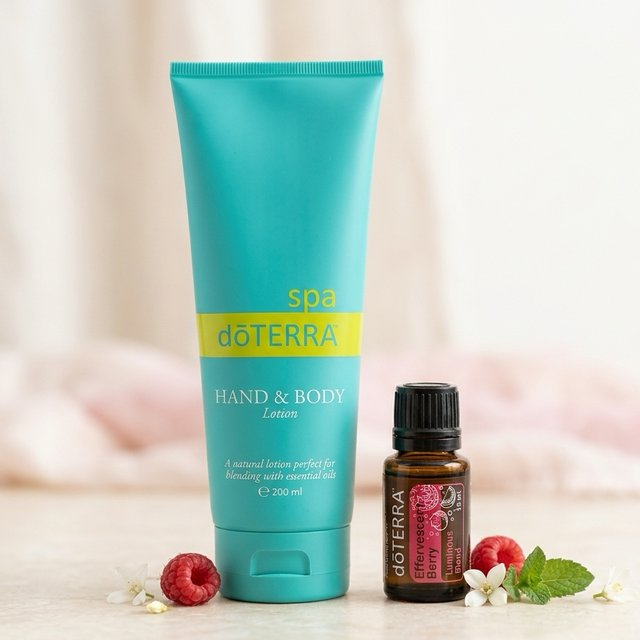
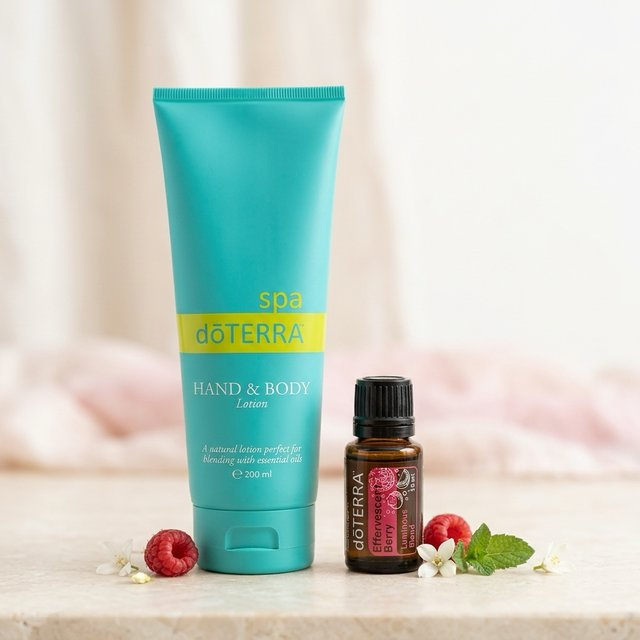
Listopad sezonowe: lepszy kadr Holiday Peace, Moringa Rose, Effervescent Berry; Effervescent na koniec sezonowych; kwadratowe zdjęcia na telefonie

diff --git a/listopad-sezonowe/index.html b/listopad-sezonowe/index.html
@@ -43,7 +43,7 @@ h3{font-size:19px;font-weight:600;margin:0 0 5px;line-height:1.25} .op{font-size
 .uw{margin-top:12px;font-size:12.5px;color:#713f12;background:#fef9c3;border-radius:8px;padding:6px 10px;display:inline-block}
 .metoda{background:#f4f6f5;border-radius:20px;padding:22px 24px;color:#44403c;font-size:13.5px;line-height:1.6}
 .metoda h2{font-family:'Playfair Display',serif;font-size:22px;font-weight:600;margin:0 0 8px;color:#1c1917} .metoda ul{margin:6px 0 0;padding-left:18px} .metoda a{color:#4d6a5e}
-@media (max-width:560px){ .foto{flex:1 1 100%;height:190px} .strz{display:none} .pill{margin-left:0} }
+@media (max-width:560px){ .foto{flex:1 1 100%;height:auto;aspect-ratio:1} .strz{display:none} .pill{margin-left:0} }
 </style></head><body><div class="wrap"><div class="ramka">
 <img class="lg" src="img/liscie-gora.jpg" alt="" onerror="this.style.display='none'"><img class="ld" src="img/liscie-dol.jpg" alt="" onerror="this.style.display='none'">
 <div class="in">
@@ -66,7 +66,7 @@ h3{font-size:19px;font-weight:600;margin:0 0 5px;line-height:1.25} .op{font-size
 <article class="k"><div class="foto"><img src="img/holiday-joy.jpg" alt="Holiday Joy (15 ml)"></div>
 <div class="tr"><div class="meta"><span class="et">PREZENT SEZONOWY</span><span class="pvm">· 29,5 PV</span></div>
 <h3>Holiday Joy (15 ml)</h3><div class="op">pomarańcza, goździk, kasja, jodła syberyjska, imbir</div><div class="row"><div><div class="lab ak">Cena</div><div class="pln">139,75 <span>zł</span></div></div></div></div></article>
-<article class="k"><div class="foto"><img src="img/holiday-peace.jpg?v=2" alt="Holiday Peace (15 ml)"></div>
+<article class="k"><div class="foto"><img src="img/holiday-peace.jpg?v=3" alt="Holiday Peace (15 ml)"></div>
 <div class="tr"><div class="meta"><span class="et">PREZENT SEZONOWY</span><span class="pvm">· 29,5 PV</span></div>
 <h3>Holiday Peace (15 ml)</h3><div class="op">jodła syberyjska, daglezja zielona, jodła nepalska, grejpfrut, kadzidłowiec, wetyweria</div><div class="row"><div><div class="lab ak">Cena</div><div class="pln">139,75 <span>zł</span></div></div></div></div></article>
 <article class="k"><div class="foto"><img src="img/yule-log.jpg?v=2" alt="Yule Log (15 ml)"></div>
@@ -75,15 +75,12 @@ h3{font-size:19px;font-weight:600;margin:0 0 5px;line-height:1.25} .op{font-size
 <article class="k"><div class="foto"><img src="img/hygge.jpg" alt="Hygge (15 ml)"></div>
 <div class="tr"><div class="meta"><span class="et">PREZENT SEZONOWY</span><span class="pvm">· 36 PV</span></div>
 <h3>Hygge (15 ml)</h3><div class="op">dzika pomarańcza, cedarwood, mirra, kadzidłowiec, wetyweria, amyris, czystek</div><div class="row"><div><div class="lab ak">Cena</div><div class="pln">169,49 <span>zł</span></div></div></div></div></article>
-<article class="k"><div class="foto"><img src="img/moringa-rose.jpg?v=2" alt="Moringa Rose — olejek do twarzy (30 ml)"></div>
+<article class="k"><div class="foto"><img src="img/moringa-rose.jpg?v=3" alt="Moringa Rose — olejek do twarzy (30 ml)"></div>
 <div class="tr"><div class="meta"><span class="et">PREZENT SEZONOWY</span><span class="pvm">· 33,5 PV</span></div>
 <h3>Moringa Rose — olejek do twarzy (30 ml)</h3><div class="op">olej z nasion moringi, olejek z róży damasceńskiej</div><div class="row"><div><div class="lab ak">Cena</div><div class="pln">184,50 <span>zł</span></div></div></div></div></article>
 <article class="k"><div class="foto"><img src="img/cinnamon-cosy-cup.jpg" alt="Cynamon (5 ml) + kubek Cosy Cup"></div>
 <div class="tr"><div class="meta"><span class="et">PREZENT SEZONOWY</span><span class="pvm">· 30,5 PV</span></div>
 <h3>Cynamon (5 ml) + kubek Cosy Cup</h3><div class="op">zestaw</div><div class="row"><div><div class="lab ak">Cena</div><div class="pln">203,50 <span>zł</span></div></div></div></div></article>
-<article class="k"><div class="foto"><img src="img/effervescent-berry-balsam.jpg?v=2" alt="Effervescent Berry (15 ml) + balsam do rąk i ciała"></div>
-<div class="tr"><div class="meta"><span class="et">PREZENT SEZONOWY</span><span class="pvm">· 41 PV</span></div>
-<h3>Effervescent Berry (15 ml) + balsam do rąk i ciała</h3><div class="op">zestaw: mieszanka 15 ml i balsam do rąk i ciała</div><div class="row"><div><div class="lab ak">Cena</div><div class="pln">204,75 <span>zł</span></div></div></div></div></article>
 <article class="k"><div class="foto"><img src="img/lemon-eucalyptus-kosmetyczka.jpg" alt="Eukaliptus cytrynowy (15 ml) + kosmetyczka podróżna"></div>
 <div class="tr"><div class="meta"><span class="et">PREZENT SEZONOWY</span><span class="pvm">· 36,5 PV</span></div>
 <h3>Eukaliptus cytrynowy (15 ml) + kosmetyczka podróżna</h3><div class="op">kosmetyczka 26 × 20 × 7 cm, gumki na butelki 5, 10 i 15 ml</div><div class="row"><div><div class="lab ak">Cena</div><div class="pln">205,00 <span>zł</span></div></div></div></div></article>
@@ -92,7 +89,10 @@ h3{font-size:19px;font-weight:600;margin:0 0 5px;line-height:1.25} .op{font-size
 <h3>Rewitalizująca maska pod oczy Yarrow|Pom</h3><div class="op">płatki pod oczy</div><div class="row"><div><div class="lab ak">Cena</div><div class="pln">208,25 <span>zł</span></div></div></div></div></article>
 <article class="k"><div class="foto"><img src="img/black-spruce-pebble.jpg" alt="Czarny świerk (5 ml) + dyfuzor Pebble"></div>
 <div class="tr"><div class="meta"><span class="et">PREZENT SEZONOWY</span><span class="pvm">· 22,5 PV</span></div>
-<h3>Czarny świerk (5 ml) + dyfuzor Pebble</h3><div class="op">zestaw</div><div class="row"><div><div class="lab ak">Cena</div><div class="pln">212,75 <span>zł</span></div></div></div></div></article></div>
+<h3>Czarny świerk (5 ml) + dyfuzor Pebble</h3><div class="op">zestaw</div><div class="row"><div><div class="lab ak">Cena</div><div class="pln">212,75 <span>zł</span></div></div></div></div></article>
+<article class="k"><div class="foto"><img src="img/effervescent-berry-balsam.jpg?v=3" alt="Effervescent Berry (15 ml) + balsam do rąk i ciała"></div>
+<div class="tr"><div class="meta"><span class="et">PREZENT SEZONOWY</span><span class="pvm">· 41 PV</span></div>
+<h3>Effervescent Berry (15 ml) + balsam do rąk i ciała</h3><div class="op">zestaw: mieszanka 15 ml i balsam do rąk i ciała</div><div class="row"><div><div class="lab ak">Cena</div><div class="pln">204,75 <span>zł</span></div></div></div></div></article></div>
 <div class="sek"><span class="t">Promocje miesiąca</span><span class="l"></span><span class="n">3 pozycje</span></div>
 <div class="lista"><article class="k"><div class="foto"><img src="img/ravintsara.jpg" alt="Ravintsara (5 ml)"></div>
 <div class="tr"><div class="meta"><span class="et">PRODUKT MIESIĄCA</span></div>
